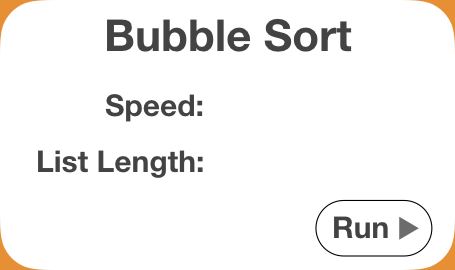
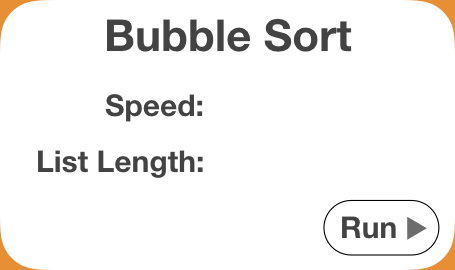
Reworked cofig view. Added stepper button.

Changed region(s): [[0.6769, 0.7407, 0.9846, 0.9778]]

diff --git a/pygame/00 main.py b/pygame/00 main.py
@@ -54,10 +54,10 @@ quicksort_frame = (window_size[0]-spacing-sortingBoxes_size_w, title_height+spac
 mergesort_frame = (spacing, window_size[1]-spacing-sortingBoxes_size_h)
 insertionsort_frame = (window_size[0]-spacing-sortingBoxes_size_w, window_size[1]-spacing-sortingBoxes_size_h)
 
-bubblesort_btn = pygame.image.load('bubblesort_btn.png').convert()
-quicksort_btn = pygame.image.load('quicksort_btn.png').convert()
-mergesort_btn = pygame.image.load('mergesort_btn.png').convert()
-insertionsort_btn = pygame.image.load('insertionsort_btn.png').convert()
+bubblesort_btn = pygame.image.load('bubblesort_btn.png')
+quicksort_btn = pygame.image.load('quicksort_btn.png')
+mergesort_btn = pygame.image.load('mergesort_btn.png')
+insertionsort_btn = pygame.image.load('insertionsort_btn.png')
 
 def setBoxes():
     window.blit(bubblesort_btn, bubblesort_frame)
@@ -72,16 +72,15 @@ setBoxes()
 
 # Clicking action
 # Config button
-bubblesortConfig_btn = pygame.image.load('bubblesortConfig_btn.png').convert()
-quicksortConfig_btn = pygame.image.load('quicksortConfig_btn.png').convert()
-mergesortConfig_btn = pygame.image.load('mergesortConfig_btn.png').convert()
-insertionsortConfig_btn = pygame.image.load('insertionsortConfig_btn.png').convert()
+bubblesortConfig_btn = pygame.image.load('bubblesortConfig_btn.png')
+quicksortConfig_btn = pygame.image.load('quicksortConfig_btn.png')
+mergesortConfig_btn = pygame.image.load('mergesortConfig_btn.png')
+insertionsortConfig_btn = pygame.image.load('insertionsortConfig_btn.png')
+
+stepper_btn = pygame.image.load('stepper_btn.png')
 
 # Run button
-bubblesortRun_btn = pygame.image.load('bubblesortRun_btn.png').convert()
-quicksortRun_btn = pygame.image.load('quicksortRun_btn.png').convert()
-mergesortRun_btn = pygame.image.load('mergesortRun_btn.png').convert()
-insertionsortRun_btn = pygame.image.load('insertionsortRun_btn.png').convert()
+run_btn = pygame.image.load('run_btn.png')
 
 # Sorting config
 runBtn_x, runBtn_y, runBtn_w, runBtn_h = 324, 200, 116, 56
@@ -91,7 +90,7 @@ speed = 10
 listlength = 100
 
 # Check if cursor in box
-def cursor(frame, sort_image, show_image, run_image):
+def cursor(frame, sort_image, show_image):
     mouse_pos = pygame.mouse.get_pos()
     if frame[0]+sortingBoxes_size_w > mouse_pos[0] > frame[0] and frame[1]+sortingBoxes_size_h > mouse_pos[1] > frame[1]:
         # Show image
@@ -102,12 +101,24 @@ def cursor(frame, sort_image, show_image, run_image):
         window.blit(speedConfig_text,(frame[0]+speedText_x, frame[1]+speedText_y))
         window.blit(listlengthConfig_text,(frame[0]+listlengthText_x, frame[1]+listlengthText_y))
 
+        window.blit(stepper_btn,(frame[0]+speedText_x+80, frame[1]+speedText_y-3))
+        window.blit(stepper_btn,(frame[0]+listlengthText_x+80, frame[1]+listlengthText_y-3))
         update_draw()
+
+        # Mouse click in stepper
+        # Stepper for speed
+        # -
+        # +
+        # Stepper for listlength
+        # -
+        # +
 
         # Mouse click in box
         if frame[0]+runBtn_x+runBtn_w > mouse_pos[0] > frame[0]+runBtn_x and frame[1]+runBtn_y+runBtn_h > mouse_pos[1] > frame[1]+runBtn_y:
-            window.blit(run_image, frame)
+            window.blit(run_btn, (frame[0]+runBtn_x, frame[1]+runBtn_y))
+            update_draw()
             if event.type == pygame.MOUSEBUTTONDOWN: return True
+        
     else:
         window.blit(sort_image, frame)
         update_draw()
@@ -118,19 +129,19 @@ while True:
             pygame.quit()
             quit()
 
-        if cursor(bubblesort_frame, bubblesort_btn, bubblesortConfig_btn, bubblesortRun_btn):
+        if cursor(bubblesort_frame, bubblesort_btn, bubblesortConfig_btn):
             bubblesort()
             setTitle() # Reset
             setBoxes()
-        elif cursor(quicksort_frame, quicksort_btn, quicksortConfig_btn, quicksortRun_btn):
+        elif cursor(quicksort_frame, quicksort_btn, quicksortConfig_btn):
             quicksort()
             setTitle() # Reset
             setBoxes()
-        elif cursor(mergesort_frame, mergesort_btn, mergesortConfig_btn, mergesortRun_btn):
+        elif cursor(mergesort_frame, mergesort_btn, mergesortConfig_btn):
             mergesort()
             setTitle() # Reset
             setBoxes()
-        elif cursor(insertionsort_frame, insertionsort_btn, insertionsortConfig_btn, insertionsortRun_btn): # Algorithm not done
+        elif cursor(insertionsort_frame, insertionsort_btn, insertionsortConfig_btn): # Algorithm not done
             # insertionsort()
             setTitle() # Reset
             setBoxes()
